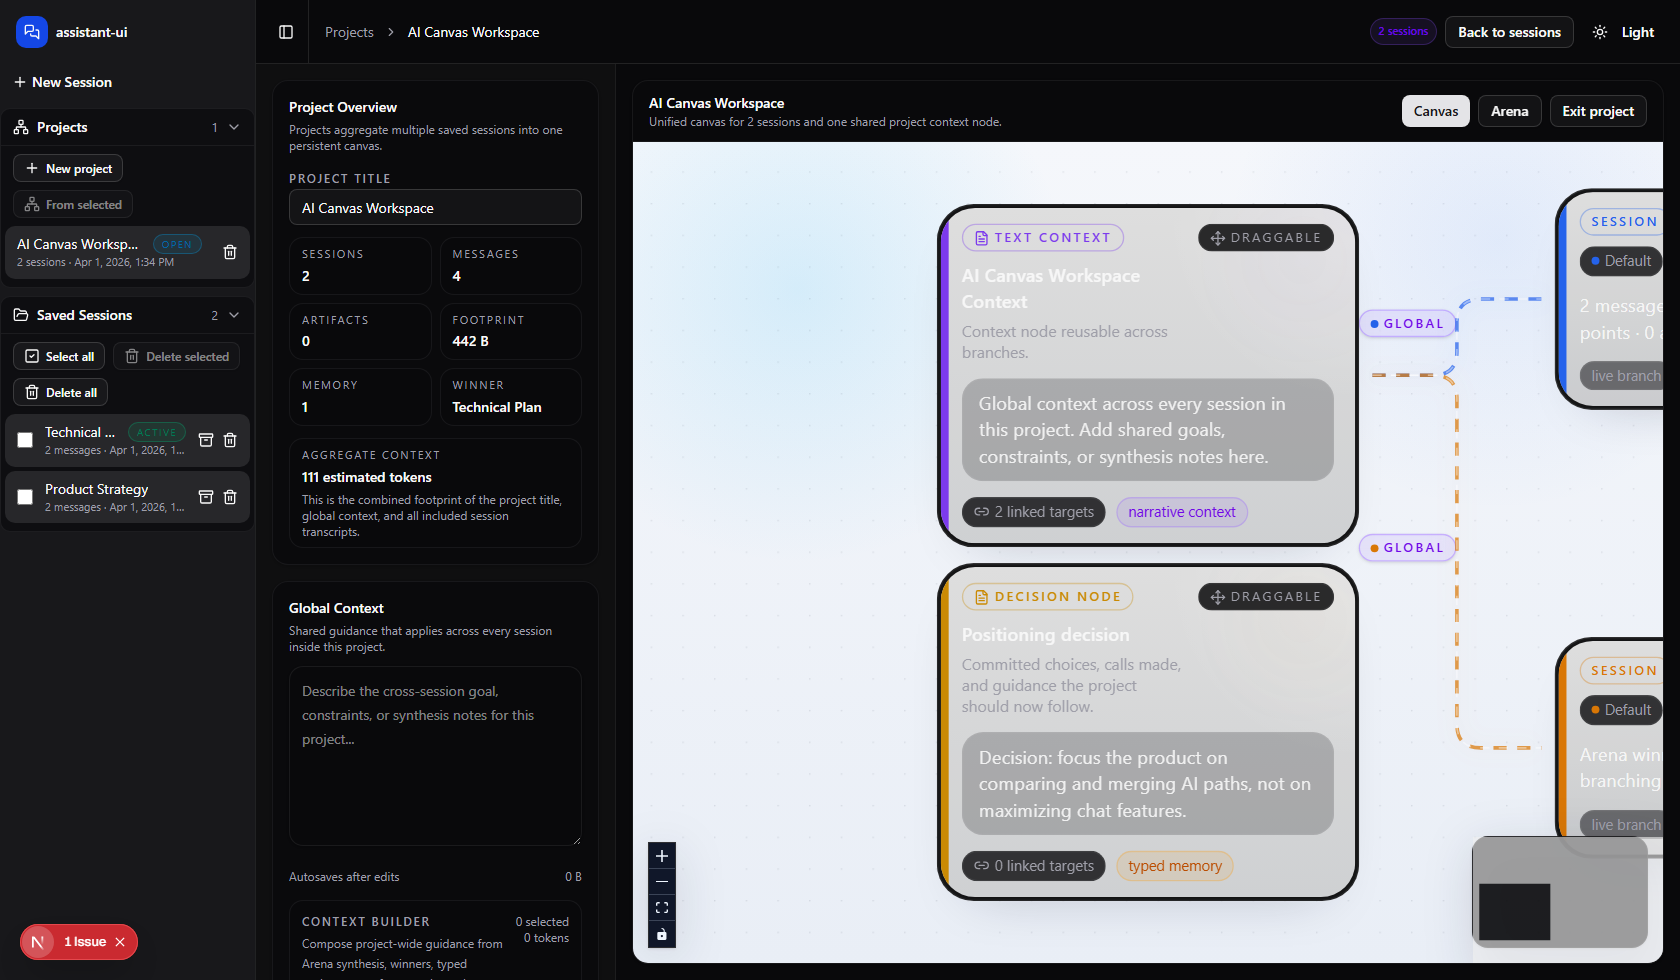
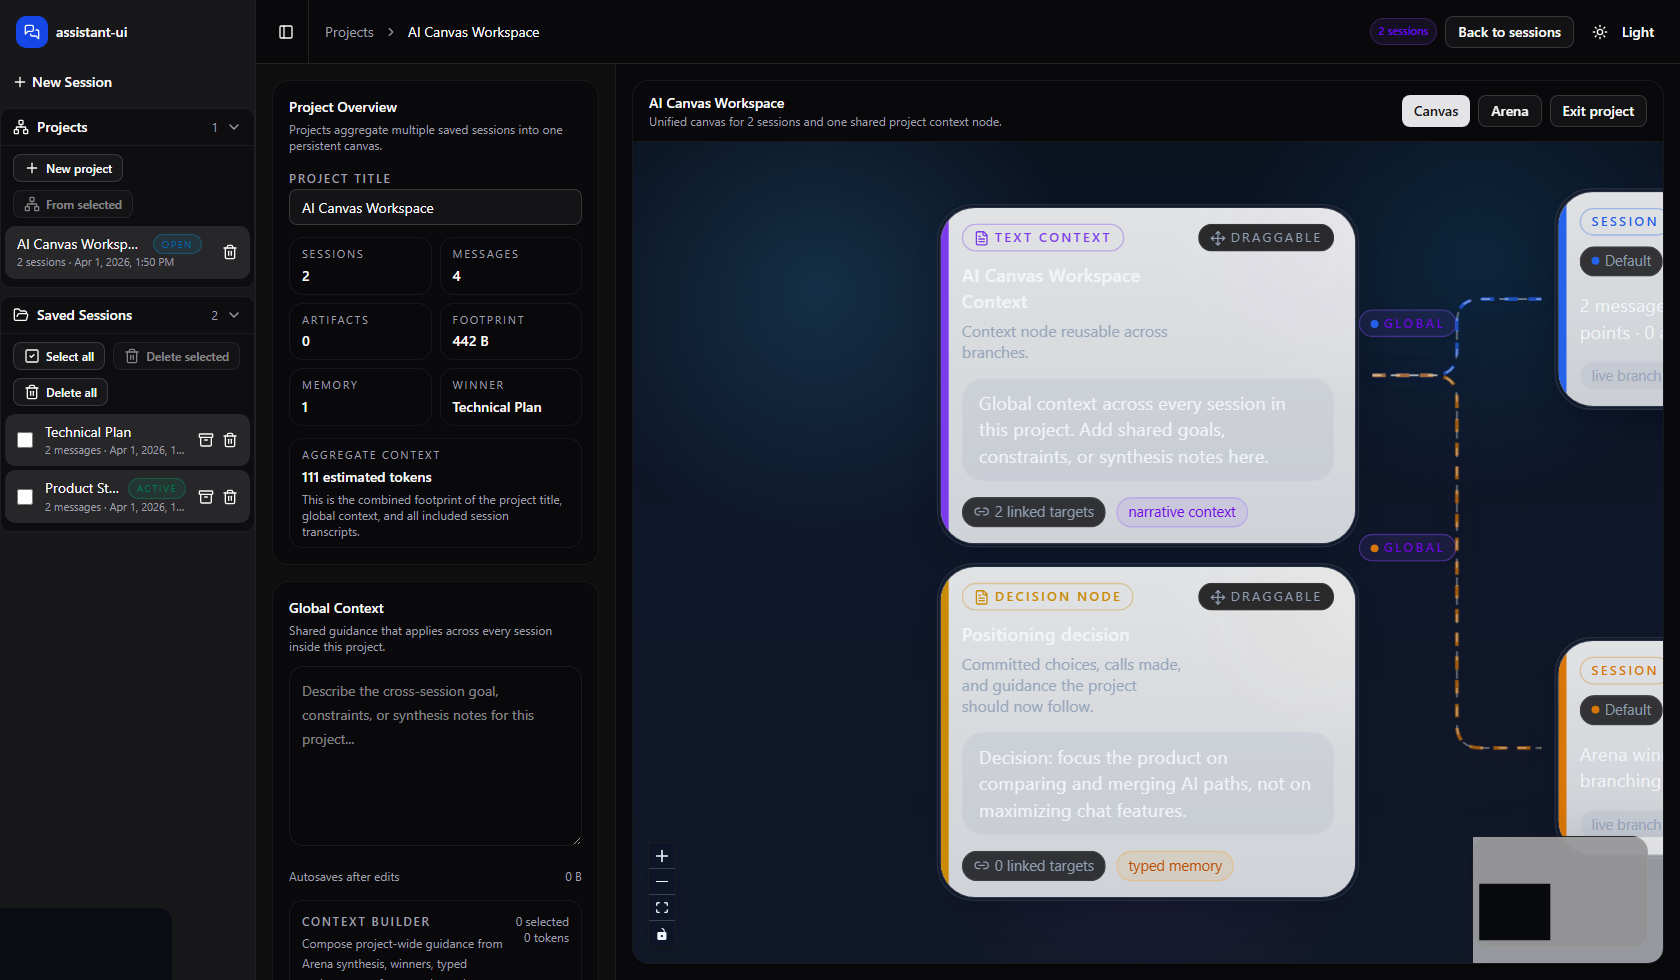
docs: polish README graph screenshots

diff --git a/tests/e2e/readme-capture.spec.ts b/tests/e2e/readme-capture.spec.ts
@@ -181,14 +181,42 @@ async function applyReadmePolish(page: Page) {
     content: `
       .react-flow {
         background:
-          radial-gradient(circle at 16% 18%, rgba(56, 189, 248, 0.16), transparent 25%),
-          radial-gradient(circle at 84% 12%, rgba(59, 130, 246, 0.1), transparent 24%),
-          linear-gradient(180deg, #f5f7fb 0%, #e9eef6 100%) !important;
+          radial-gradient(circle at 18% 18%, rgba(56, 189, 248, 0.16), transparent 24%),
+          radial-gradient(circle at 82% 14%, rgba(14, 165, 233, 0.12), transparent 22%),
+          radial-gradient(circle at 50% 82%, rgba(168, 85, 247, 0.1), transparent 26%),
+          linear-gradient(180deg, #0b1220 0%, #0f172a 52%, #111827 100%) !important;
       }
       .react-flow__pane,
       .react-flow__viewport,
       .react-flow__renderer {
         background: transparent !important;
+      }
+      .react-flow__background {
+        opacity: 0.45 !important;
+      }
+      .react-flow__background path {
+        stroke: rgba(148, 163, 184, 0.18) !important;
+      }
+      .react-flow__node > div {
+        background: linear-gradient(180deg, rgba(17, 24, 39, 0.96), rgba(15, 23, 42, 0.94)) !important;
+        border-color: rgba(148, 163, 184, 0.2) !important;
+        box-shadow: 0 24px 54px -30px rgba(2, 6, 23, 0.7) !important;
+      }
+      .react-flow__node > div > div {
+        background: linear-gradient(180deg, rgba(30, 41, 59, 0.94), rgba(15, 23, 42, 0.92)) !important;
+        border-color: rgba(148, 163, 184, 0.16) !important;
+      }
+      .react-flow__node p {
+        color: rgba(241, 245, 249, 0.95) !important;
+      }
+      .react-flow__node [class*="text-muted-foreground"] {
+        color: rgba(148, 163, 184, 0.95) !important;
+      }
+      .react-flow__node [class*="bg-muted"] {
+        background: rgba(148, 163, 184, 0.16) !important;
+      }
+      .react-flow__edge path {
+        filter: drop-shadow(0 0 6px rgba(59, 130, 246, 0.15));
       }
       .react-flow__controls,
       .react-flow__minimap {
@@ -201,8 +229,24 @@ async function applyReadmePolish(page: Page) {
         border-color: rgba(148, 163, 184, 0.32) !important;
       }
       .react-flow__attribution,
+      [data-sonner-toaster],
+      [data-sonner-toast],
+      [role="alert"],
+      [role="status"],
       a[href*="github.com"] {
         display: none !important;
+      }
+      body::after {
+        content: "";
+        position: fixed;
+        left: 0;
+        bottom: 0;
+        width: 172px;
+        height: 72px;
+        background: #0a0d14;
+        border-top-right-radius: 14px;
+        z-index: 2147483647;
+        pointer-events: none;
       }
     `,
   });
@@ -212,6 +256,21 @@ async function applyReadmePolish(page: Page) {
       const text = anchor.textContent?.replace(/\s+/g, " ").trim() ?? "";
       if (text.includes("GitHub") || text.includes("View Source")) {
         (anchor as HTMLElement).style.display = "none";
+      }
+    }
+
+    for (const element of Array.from(document.querySelectorAll("body *"))) {
+      const htmlElement = element as HTMLElement;
+      const text = htmlElement.innerText?.replace(/\s+/g, " ").trim() ?? "";
+      const style = window.getComputedStyle(htmlElement);
+      const rect = htmlElement.getBoundingClientRect();
+      const isToastZone =
+        rect.left < 220 &&
+        rect.bottom > window.innerHeight - 220 &&
+        rect.width < 260 &&
+        rect.height < 120;
+      if ((style.position === "fixed" || style.position === "sticky" || isToastZone) && /\bIssue\b/i.test(text)) {
+        htmlElement.style.display = "none";
       }
     }
   });